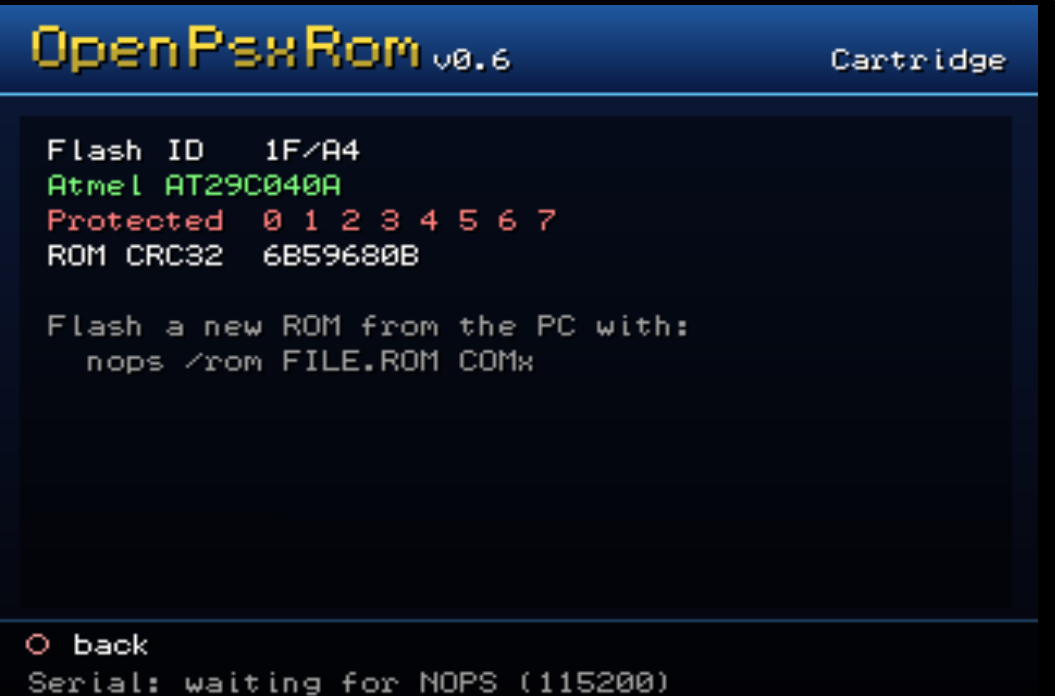
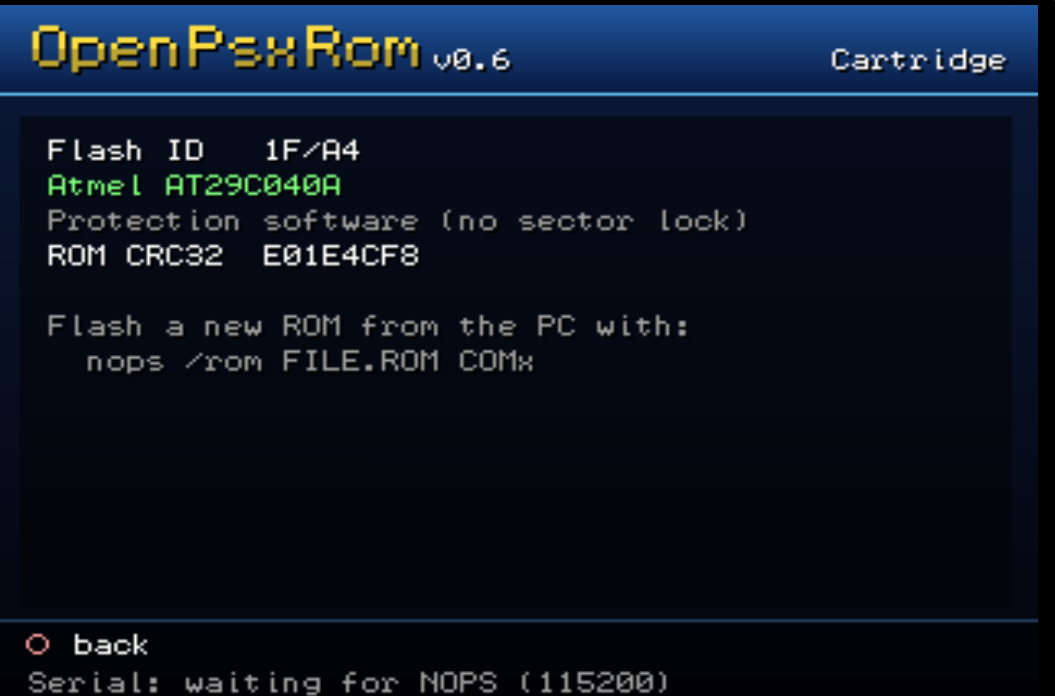
Cartridge info: show sector protection only on chips that have it
The per-sector protection read only means something on AMD-style chips
(Am29F010 of Datel carts). Atmel/SST/Winbond page chips (Xplorer) use
software data protection, so the screen listed every sector as
protected. They now show "Protection software (no sector lock)".
Also shows the second chip of double-chip Xplorer FX carts.

Changed region(s): [[0.0303, 0.3017, 0.728, 0.3922]]

diff --git a/src/main.c b/src/main.c
@@ -106,9 +106,19 @@ static int confirm(const char *title, const char *l1, const char *l2) {
 
 // ---------------------------------------------------------------- cartridge
 static void screen_cart(void) {
-    u8 mfr, dev, prot[8];
+    u8 mfr, dev, prot[8], m2, d2;
     int known = flash_identify(&mfr, &dev);
-    flash_protect(prot);
+    // hardware sector protection only exists on AMD-style chips (Am29F010 of Datel carts);
+    // Atmel/SST/Winbond page chips use software data protection: nothing to read per sector
+    int lockable = mfr == 0x01 || mfr == 0x20 || mfr == 0x04;
+    if (lockable) flash_protect(prot);
+    // a second chip only if the first one is smaller than 512 KB (else 40000h is the same chip)
+    int chip2 = flash_chip_kb(mfr, dev) < 512 && flash_identify_at(0x40000, &m2, &d2);
+    if (chip2) {                                       // a single chip also answers there (wrap)
+        const volatile u8 *a = (const volatile u8 *)FLASH_BASE, *b = a + 0x40000;
+        chip2 = 0;
+        for (u32 i = 0; i < 0x1000 && !chip2; i++) if (a[i] != b[i]) chip2 = 1;
+    }
     u32 crc = crc32((const void *)FLASH_BASE, FLASH_SIZE);
     for (;;) {
         frame_begin("Cartridge");
@@ -118,12 +128,22 @@ static void screen_cart(void) {
         p = fmt_hex(p, mfr, 2); p = fmt_str(p, "/"); fmt_hex(p, dev, 2);
         gfx_text(16, y, C_TEXT, s); y += 12;
         gfx_text(16, y, known ? C_OK : C_ERR, flash_chip_name(mfr, dev)); y += 12;
-        p = fmt_str(s, "Protected  ");
-        int any = 0;
-        for (int i = 0; i < 8; i++) if (prot[i]) { *p++ = '0' + i; *p++ = ' '; any = 1; }
-        if (!any) p = fmt_str(p, "none");
-        *p = 0;
-        gfx_text(16, y, any ? C_ERR : C_OK, s); y += 12;
+        if (lockable) {
+            p = fmt_str(s, "Protected  ");
+            int any = 0;
+            for (int i = 0; i < 8; i++) if (prot[i]) { *p++ = '0' + i; *p++ = ' '; any = 1; }
+            if (!any) p = fmt_str(p, "none");
+            *p = 0;
+            gfx_text(16, y, any ? C_ERR : C_OK, s); y += 12;
+        } else {
+            gfx_text(16, y, C_DIM, "Protection software (no sector lock)"); y += 12;
+        }
+        if (chip2) {
+            p = fmt_str(s, "Chip 2     ");
+            p = fmt_hex(p, m2, 2); p = fmt_str(p, "/"); p = fmt_hex(p, d2, 2);
+            p = fmt_str(p, " at 1F040000h");
+            gfx_text(16, y, C_OK, s); y += 12;
+        }
         p = fmt_str(s, "ROM CRC32  "); fmt_hex(p, crc, 8);
         gfx_text(16, y, C_TEXT, s); y += 24;
         gfx_text(16, y, C_DIM, "Flash a new ROM from the PC with:"); y += 12;
